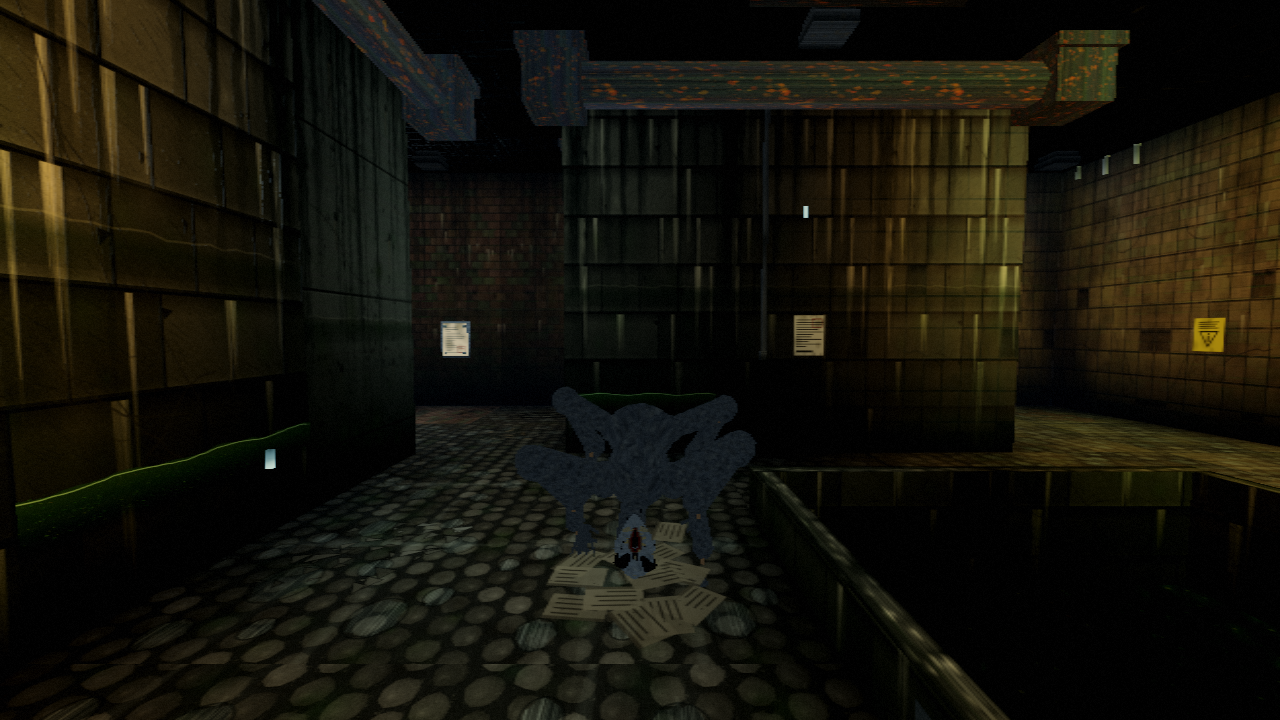
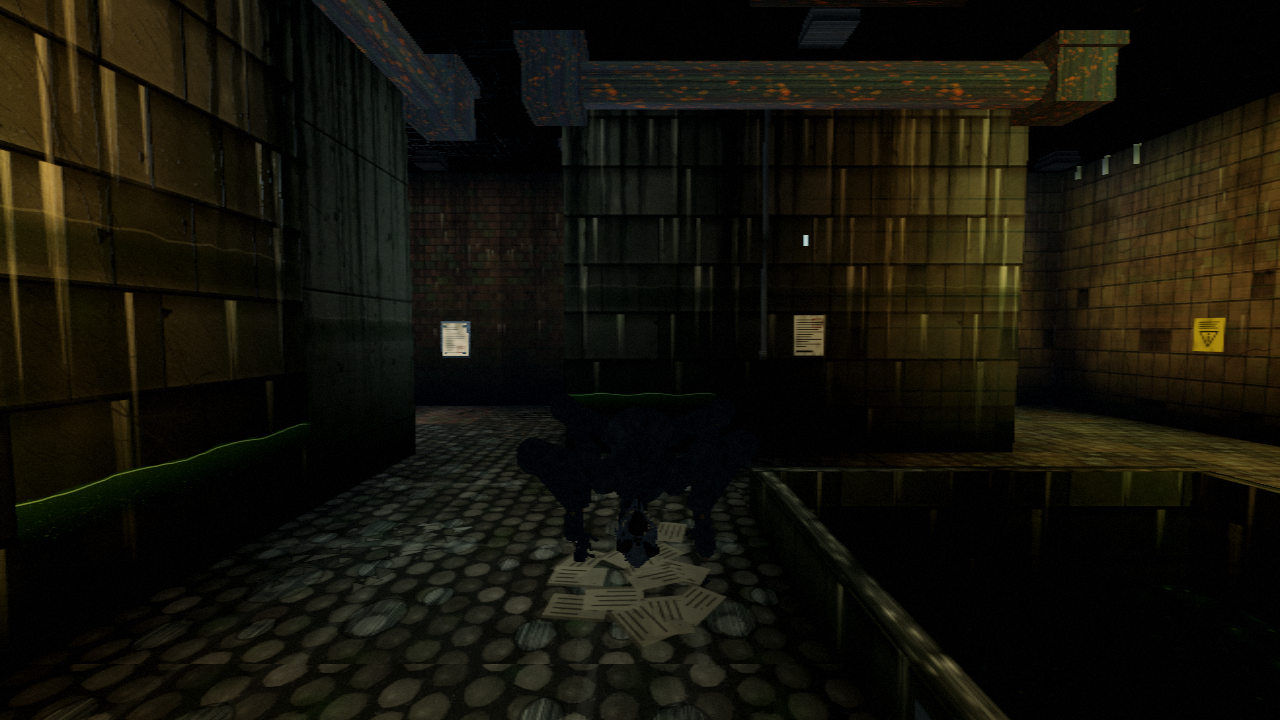
P5e-2a 差し戻し: 案D 材質をモック値へ戻し、縦裂の口を読ませる
事前ゲート不合格（①肌が蒼白で平板 ③縦裂が細く歯茎・歯が読めない・油膜の艶が無い
④暗所のグレインで細部が潰れる）への対応。

- 材質は mock_D.js の mats() をそのまま移植（皮膚 #4c5156/tint 8c959d/rough .22-.78/bump 3.6、
  顔 #5b6166/tint 99a3ab/rough .22-.76/nscale 1.1/repeat 4x3、骨・歯茎・肉・歯・腱も同値）。
  皮膚キャンバスの既定サイズもモックと同じ 512 に戻した（斑・血管・毛穴の密度が一致）。
  油膜は roughness .18 で鋭い小ハイライトを返す＝黒い濡れの艶。
- 縦裂の口を約2倍に開き、唇の断面・歯茎の畝・1本ずつの歯・喉の闇が読めるようにした
  （彫り込みの半径 X*.28→.52、歯 hh .007-.037→.012-.048、歯茎の畝 r .0062→.0115）。
- enemy_factory.js: 暗所の下限光 LIT を大幅に下げ（実ライトが彫刻を立てる。emissive は
  「真っ暗でも顔の位置が分かる」保険に徹する）、捕獲演出の cine だけ契約 §4 に合わせ底上げ。

検証: audit/p5e2/D_compare.png は左モック・右本番を**同じ照明・同じ寄り・原寸**で並べた
もの（ゲーム内に橙キー＋緑リム＋弱いフィルを一時的に置き、区画の灯・下限光・グレインは
その間だけ伏せる。一時フックはドライバ側にあり製品には無い）。顔の中央値輝度 モック10.0 / 本番10.3。
三角形: 高 16,965 / 低 7,140

Changed region(s): [[0.4062, 0.55, 0.5938, 0.7944], [0.1875, 0.6111, 0.2188, 0.6417]]

diff --git a/js/enemy_model_a2_d.js b/js/enemy_model_a2_d.js
@@ -42,32 +42,34 @@
   /* ---------------- 材質 ---------------- */
   D.prototype._mats = function () {
     var M = this.mats;
+    /* 値はモック mock_D.js の mats() をそのまま移植（色・粗さ・法線の強さ・繰り返し）。
+       ここを弄ると「同一の存在」に見えなくなる（2026-09-20 事前ゲート差し戻しの主因）。 */
     M.skin = this._lit(A2.skin({
-      seed: 311, size: 256, base: '#4c5156', dark: 'rgba(6,8,9,', veinColor: 'rgba(26,34,44,0.55)',
-      mottle: 210, vein: 90, wrinkle: 330, pore: 0.44, bump: 3.6, roughLo: 0.40, roughHi: 0.92,
-      tint: 0x3f464b, metalness: 0, repeat: [2, 2]
+      seed: 311, base: '#4c5156', dark: 'rgba(6,8,9,', veinColor: 'rgba(26,34,44,0.55)',
+      mottle: 210, vein: 90, wrinkle: 330, pore: 0.44, bump: 3.6, roughLo: 0.22, roughHi: 0.78,
+      tint: 0x8c959d, metalness: 0
     }), 'body');
     M.face = this._lit(A2.skin({
-      seed: 313, size: 384, base: '#5b6166', dark: 'rgba(7,9,10,', veinColor: 'rgba(30,40,52,0.5)',
-      mottle: 250, vein: 130, wrinkle: 300, pore: 0.55, bump: 3.0, roughLo: 0.44, roughHi: 0.94,
-      tint: 0x444d54, metalness: 0, repeat: [6, 5], nscale: 1.55
+      seed: 313, base: '#5b6166', dark: 'rgba(7,9,10,', veinColor: 'rgba(30,40,52,0.5)',
+      mottle: 250, vein: 130, wrinkle: 300, pore: 0.55, bump: 2.4, roughLo: 0.22, roughHi: 0.76,
+      tint: 0x99a3ab, metalness: 0, repeat: [4, 3], nscale: 1.1
     }), 'face');
     M.bone = this._lit(A2.skin({
-      seed: 319, size: 256, base: '#7c7867', dark: 'rgba(34,31,24,', veinColor: 'rgba(58,48,34,0.4)',
+      seed: 319, base: '#7c7867', dark: 'rgba(34,31,24,', veinColor: 'rgba(58,48,34,0.4)',
       mottle: 170, vein: 26, wrinkle: 230, pore: 0.26, bump: 2.4, roughLo: 0.62, roughHi: 0.96,
-      tint: 0x35332c, metalness: 0, repeat: [3, 3]
+      tint: 0x3e3c34, metalness: 0, repeat: [3, 3]
     }), 'body');
     /* 眼窩と口腔と鼻腔の底＝光を拾わない闇（実ライトでも白く浮かない） */
     M.void = this._track(new THREE.MeshBasicMaterial({ color: 0x000000, fog: true }));
-    M.gum = this._lit(A2.mat(0x3a1512, 0.70, 0, { side: THREE.DoubleSide }), 'flesh');
-    M.flesh = this._lit(A2.mat(0x4c1a19, 0.62, 0, { side: THREE.DoubleSide }), 'flesh');
-    M.tooth = this._lit(A2.mat(0x4a4533, 0.88, 0), 'tooth');
-    /* 唇の断面は小さく凸なので近接の実ライトで白飛びしやすい。専用に暗く粗く持つ */
-    M.lip = this._lit(A2.mat(0x3b322b, 0.90, 0), 'flesh');
-    M.nail = this._lit(A2.mat(0x35352d, 0.52, 0), 'body');
+    M.gum = this._lit(A2.mat(0x2d1110, 0.48, 0, { side: THREE.DoubleSide }), 'flesh');
+    M.flesh = this._lit(A2.mat(0x41181a, 0.44, 0, { side: THREE.DoubleSide }), 'flesh');
+    M.tooth = this._lit(A2.mat(0x6b6350, 0.52, 0), 'tooth');
+    M.nail = this._lit(A2.mat(0x4a4a40, 0.34, 0), 'body');
     M.sinew = this._lit(A2.mat(0x554738, 0.52, 0), 'flesh');
-    M.oil = this._lit(A2.mat(0x0b0d10, 0.38, 0), 'hair');
+    /* 黒ずんだ油膜: 低粗さで鋭い小ハイライトだけを返す（濡れの艶） */
+    M.oil = this._lit(A2.mat(0x0b0d10, 0.18, 0), 'hair');
     M.hair = this._lit(A2.mat(0x07080a, 0.62, 0), 'hair');
+    M.lip = M.face;                              /* 唇の断面はモックどおり顔と同じ皮膚 */
     M.cloth = M.oil;                             /* capture.js が mats.cloth を読む（油膜で代用） */
     return M;
   };
@@ -91,9 +93,9 @@
     ridge(sk, [X * 0.40, -Y * 0.56, -Z * 0.74], [-X * 0.40, -Y * 0.60, -Z * 0.74], X * 0.24, 0.012, 1.5);
     ridge(sk, [X * 0.34, -Y * 0.40, -Z * 0.82], [-X * 0.34, -Y * 0.44, -Z * 0.82], X * 0.18, -0.008, 1.5);
     /* 正中の縦裂（口が縦に裂ける）と、左右で違う量に捲れる縁 */
-    ridge(sk, [0, -Y * 0.24, -Z * 0.90], [0, -Y * 1.04, -Z * 0.56], X * 0.28, -0.048, 1.2);
-    ridge(sk, [X * 0.26, -Y * 0.28, -Z * 0.84], [X * 0.26, -Y * 0.98, -Z * 0.52], X * 0.16, 0.014, 1.5);
-    ridge(sk, [-X * 0.23, -Y * 0.32, -Z * 0.84], [-X * 0.23, -Y * 1.02, -Z * 0.50], X * 0.14, 0.010, 1.5);
+    ridge(sk, [0, -Y * 0.24, -Z * 0.90], [0, -Y * 1.04, -Z * 0.56], X * 0.52, -0.062, 1.15);
+    ridge(sk, [X * 0.44, -Y * 0.28, -Z * 0.82], [X * 0.44, -Y * 0.98, -Z * 0.50], X * 0.22, 0.018, 1.5);
+    ridge(sk, [-X * 0.40, -Y * 0.32, -Z * 0.82], [-X * 0.40, -Y * 1.02, -Z * 0.48], X * 0.20, 0.013, 1.5);
     ridge(sk, [X * 0.30, -Y * 0.30, Z * 0.90], [X * 0.24, -Y * 0.80, Z * 0.70], X * 0.16, -0.008, 1.5);
     /* 眼窩（左右で大きさが違う・骨縁が立つ） */
     bulge(sk, [X * 0.52 + 0.006, Y * 0.24 + 0.010, -Z * 0.78], 0.064, 0.012);
@@ -165,42 +167,42 @@
     this._mesh(ell(0.0050, 0.014, 0.008, 6), M.bone, head, 'nasalSpine').position.set(0, -Y * 0.09, -Z * 0.91);
 
     /* 縦に裂けた口: 唇の断面・歯茎の畝・1本ずつの歯・奥の喉の闇 */
-    var N = 13, eL = [], eR = [], iL = [], iR = [], back = [], k, t, y, w, jag, ze;
+    var N = 16, eL = [], eR = [], iL = [], iR = [], back = [], k, t, y, w, jag, ze;
     for (k = 0; k <= N; k++) {
       t = k / N; y = -Y * 0.22 - (Y * 0.86) * t;
-      w = 0.026 * Math.sin(Math.PI * Math.pow(t, 0.70)) + 0.005;
-      jag = ((k % 3) - 1) * 0.0011 + ((k % 5) - 2) * 0.0007;
+      w = 0.054 * Math.sin(Math.PI * Math.pow(t, 0.70)) + 0.009;
+      jag = ((k % 3) - 1) * 0.0022 + ((k % 5) - 2) * 0.0014;
       ze = -Z * 0.86 + 0.020 * Math.abs(t - 0.45) + 0.016 * t;
       eL.push([w + jag, y, ze]); eR.push([-w * 0.92 - jag, y, ze]);
-      iL.push([w * 0.52, y, ze + 0.036]); iR.push([-w * 0.50, y, ze + 0.036]);
-      back.push([0, y, ze + 0.062]);
+      iL.push([w * 0.50, y, ze + 0.030]); iR.push([-w * 0.48, y, ze + 0.030]);
+      back.push([0, y, ze + 0.070]);
     }
     this._mesh(strip(eL, iL), M.flesh, head, 'lipCutL');
     this._mesh(strip(iR, eR), M.flesh, head, 'lipCutR');
     this._mesh(strip(iL, back), M.gum, head, 'mucosaL');
     this._mesh(strip(back, iR), M.gum, head, 'mucosaR');
-    this._mesh(ell(0.016, Y * 0.40, 0.026, 10, 7), M.void, head, 'throat')
-      .position.set(0, -Y * 0.62, -Z * 0.50);
-    this._mesh(tube(eL, 0.0046, 5, false, 1.5), M.lip, head, 'lipL');
-    this._mesh(tube(eR, 0.0042, 5, false, 1.5), M.lip, head, 'lipR');
+    this._mesh(ell(0.030, Y * 0.42, 0.036, 12, 8), M.void, head, 'throat')
+      .position.set(0, -Y * 0.62, -Z * 0.56);
+    this._mesh(tube(eL, 0.0082, 6, false, 1.6), M.lip, head, 'lipL');
+    this._mesh(tube(eR, 0.0074, 6, false, 1.6), M.lip, head, 'lipR');
     [1, -1].forEach(function (s) {
       var gp = [], q, t2, ww;
       for (q = 0; q <= 8; q++) {
-        t2 = q / 8; ww = (0.026 * Math.sin(Math.PI * Math.pow(t2, 0.70)) + 0.005) * 0.62;
+        t2 = q / 8; ww = (0.054 * Math.sin(Math.PI * Math.pow(t2, 0.70)) + 0.009) * 0.60;
         gp.push([s * ww, -Y * 0.24 - (Y * 0.82) * t2, -Z * 0.78 + 0.018 * t2]);
       }
-      self._mesh(tube(gp, 0.0062, 5, false, 1.4), M.gum, head, 'gum');
+      self._mesh(tube(gp, 0.0115, 6, false, 1.5), M.gum, head, 'gum');
       /* 歯茎の畝の内側に湿った暗赤（口の中に色を残す） */
       var R2 = rng(s > 0 ? 41 : 47);
       for (var n = 0; n < 11; n++) {
         var t3 = 0.05 + 0.90 * n / 10;
-        var ww2 = (0.026 * Math.sin(Math.PI * Math.pow(t3, 0.70)) + 0.005) * 0.68;
+        var ww2 = (0.054 * Math.sin(Math.PI * Math.pow(t3, 0.70)) + 0.009) * 0.66;
         if (R2() < 0.16) continue;                       /* 欠けた歯 */
-        var hh = 0.007 + R2() * 0.030, cw = 0.0028 + R2() * 0.0046;
+        var hh = 0.012 + R2() * 0.036, cw = 0.0042 + R2() * 0.0062;
         var cone = new THREE.ConeGeometry(cw, hh, 5);
         cone.translate(0, -hh / 2, 0);
         var tm = self._mesh(cone, M.tooth, head, 'tooth', 1);
-        tm.position.set(s * ww2, -Y * 0.24 - (Y * 0.82) * t3, -Z * 0.81 + 0.018 * t3 + (R2() - 0.5) * 0.005);
+        tm.position.set(s * ww2, -Y * 0.24 - (Y * 0.82) * t3, -Z * 0.80 + 0.018 * t3 + (R2() - 0.5) * 0.006);
         tm.rotation.order = 'ZXY';
         tm.rotation.z = s * (1.34 + (R2() - 0.5) * 0.62);
         tm.rotation.x = (R2() - 0.5) * 0.62;
@@ -249,7 +251,7 @@
       this._mesh(tube([
         [ax, Y * 0.30 - RO() * 0.06, az], [ax * 0.8, -Y * 0.30, az - 0.006],
         [ax * 0.5, -Y * 0.90 - RO() * 0.10, az * 0.7]
-      ], 0.0013 + RO() * 0.0011, 3, false, 1.4), M.oil, head, 'oil', 1);
+      ], 0.0022 + RO() * 0.0016, 4, false, 1.5), M.oil, head, 'oil', 1);
     }
   };
 

diff --git a/js/enemy_factory.js b/js/enemy_factory.js
@@ -65,7 +65,7 @@
 
   /** 皮膚/骨/布のアルベド: 斑・血管・皺・毛穴 */
   function skinCanvas(o) {
-    var S = o.size || 256, cv = document.createElement('canvas');
+    var S = o.size || 512, cv = document.createElement('canvas');
     cv.width = cv.height = S;
     var c = cv.getContext('2d'), R = rng(o.seed || 7), i, n;
     c.fillStyle = o.base || '#8f9490'; c.fillRect(0, 0, S, S);
@@ -109,7 +109,7 @@
   /** 皮膚材質（アルベド＋法線＋粗さ）。同じ seed/寸法ならテクスチャを共有する。 */
   A2.skin = function (o) {
     o = o || {};
-    var key = 'sk' + (o.seed || 7) + '_' + (o.size || 256) + '_' + (o.base || '') + '_' + (o.bump || '') +
+    var key = 'sk' + (o.seed || 7) + '_' + (o.size || 512) + '_' + (o.base || '') + '_' + (o.bump || '') +
       '_' + (o.roughLo || '') + '_' + (o.roughHi || '') + '_' + (o.mottle || '') + '_' + (o.vein || '') +
       '_' + (o.repeat ? o.repeat[0] + 'x' + o.repeat[1] : '1');
     var set = texCache[key];
@@ -299,16 +299,19 @@
 
   /* 暗がりでの見え方（emissive の下限/傾き/上限）。
      契約: 顔は闇でも読める／眼窩と口腔は光っても闇のまま／捕獲演出中だけ顔を底上げ。 */
-  /* 実測較正（2026-09-20・area2 の暗い合流槽で捕獲の寄りを撮り、顔の中央値輝度で合わせた）:
-     cine の上限 0.15→中央値29 / 0.45→72 / 1.1→107。読めてなお暗い 70〜90 を狙う。 */
+  /* 2026-09-20 事前ゲート差し戻し（①肌が平板・④暗所で粒状ノイズに潰れる）を受けて再較正。
+     造形を立てるのは**実ライト**の仕事で、emissive は「真っ暗でも顔の位置が分かる」保険に
+     徹する。上限を低く抑えないと明るい区画で法線と粗さの起伏が飛んで平板になる。
+     cine（捕獲演出）だけは契約 §4「捕獲時限定の高解像度顔」に合わせて底上げする
+     （暗い合流槽での顔アップで中央値 35〜50 になる実測値）。 */
   var LIT = {
-    body: { min: 0.030, gain: 0.85, max: 0.200, cine: [0.090, 0.300] },
-    face: { min: 0.075, gain: 1.30, max: 0.300, cine: [0.160, 0.400] },
-    tooth: { min: 0.040, gain: 0.80, max: 0.190, cine: [0.140, 0.380] },
-    cloth: { min: 0.020, gain: 0.65, max: 0.140, cine: [0.060, 0.210] },
-    hair: { min: 0.010, gain: 0.40, max: 0.080, cine: [0.030, 0.120] },
-    metal: { min: 0.018, gain: 0.75, max: 0.150, cine: [0.050, 0.220] },
-    flesh: { min: 0.024, gain: 0.60, max: 0.130, cine: [0.080, 0.230] },
+    body: { min: 0.022, gain: 0.26, max: 0.060, cine: [0.060, 0.150] },
+    face: { min: 0.046, gain: 0.34, max: 0.090, cine: [0.115, 0.260] },
+    tooth: { min: 0.026, gain: 0.24, max: 0.058, cine: [0.070, 0.160] },
+    cloth: { min: 0.016, gain: 0.20, max: 0.046, cine: [0.044, 0.110] },
+    hair: { min: 0.005, gain: 0.08, max: 0.018, cine: [0.008, 0.024] },
+    metal: { min: 0.012, gain: 0.22, max: 0.046, cine: [0.036, 0.100] },
+    flesh: { min: 0.016, gain: 0.20, max: 0.042, cine: [0.048, 0.120] },
     hollow: { min: 0.000, gain: 0.00, max: 0.000, cine: [0.000, 0.000] }
   };
   A2.LIT = LIT;
